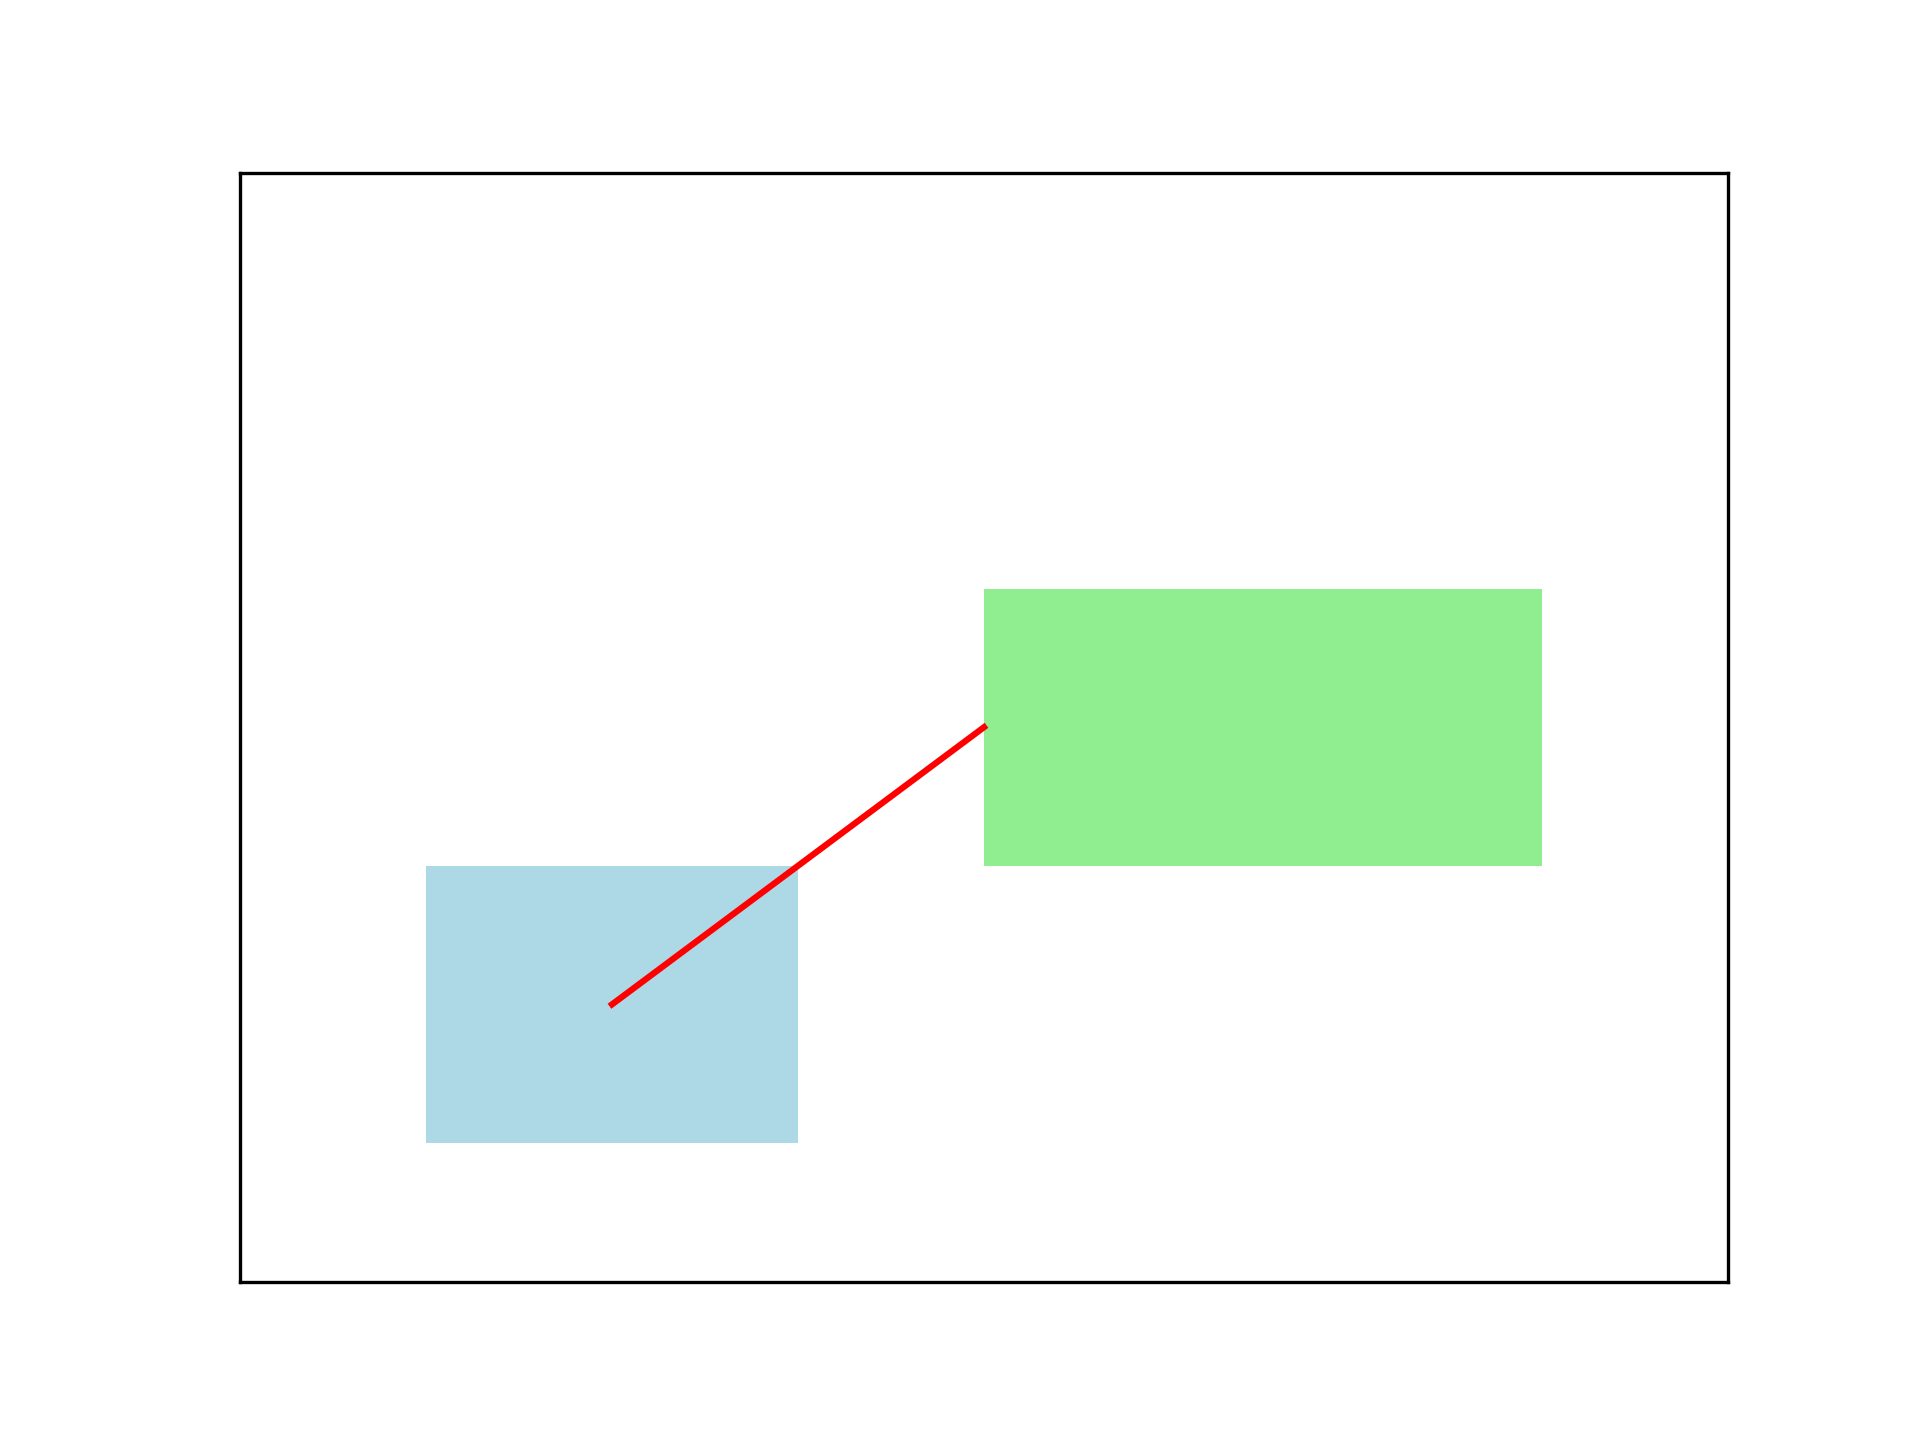
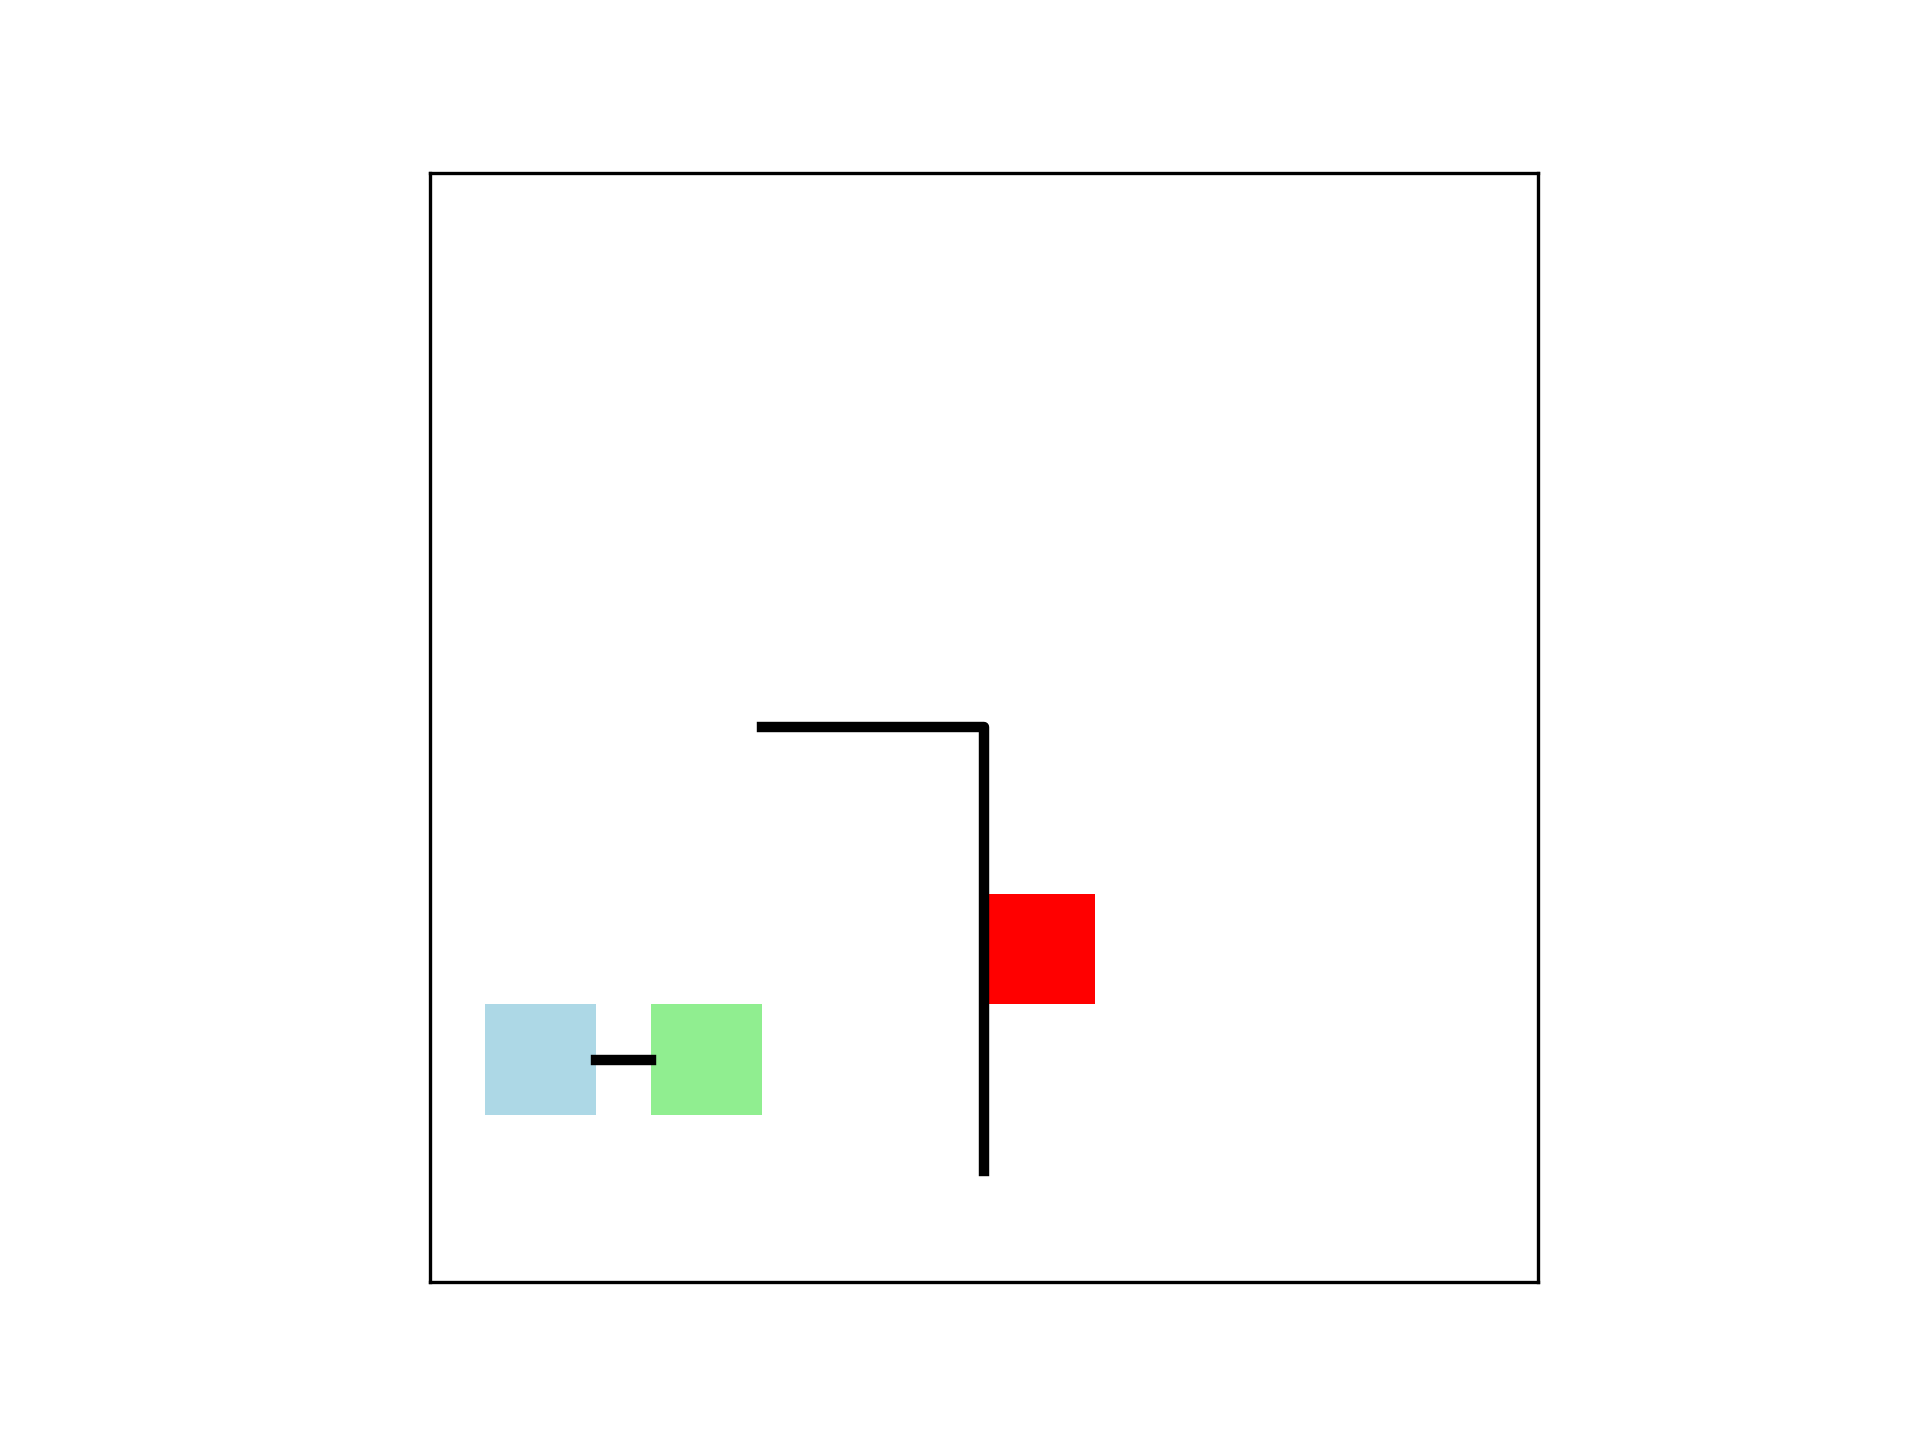
graph

diff --git a/TriLogic/Func_main.cpp b/TriLogic/Func_main.cpp
@@ -159,9 +159,7 @@ int main() {
                 }
 
             }
-            //cout << endl << "F：";
             for (int there = 0; there < sizeofF; there++) {
-                //cout << d[i]["Statement_when_false"][there].GetInt() << "   ";
                 Nodes *b = find_node_by_number1(d[i]["Statement_when_false"][there].GetInt());
 
                 if (b != NULL && (b->control == NULL || b->control->node_id < con))//b不是空节点,且当前控制节点没有指向
@@ -170,10 +168,8 @@ int main() {
                         inDegree[b->node_id]++;//节点b的入度++
                     b->control = con_node;
                     TvsF.insert(pair<int, bool>(b->node_id, false));//构建互斥
-                    //cout << "there is " << con << " to " << b->node_id << "control depend" << endl;
                 }
             }
-//                //cout<<endl;
         }
         if (type_id == 4)//类型为loop
         {
@@ -182,13 +178,11 @@ int main() {
             int con = d[i]["Condition"].GetInt();//条件节点的位置
             Nodes *con_node = find_node_by_number1(con);
 
-            //cout << "loop depend" << endl << "condition: " << con << endl;
             int sizeofL = d[i]["Statement_loop"].Size();//LOOP节点数目
             con_node->out_degree += sizeofL;//更新条件节点的出度
 
             for (int there = 0; there < sizeofL; there++) {
                 int there_id = d[i]["Statement_loop"][there].GetInt();
-//                    //cout<<there_id<<endl;
                 //1.该节点可能是OP，没有Dst，所以要先对类型进行判断
                 //2.条件节点判断的输入也可能有多个，最好写成函数，直接套用OP之间的依赖
                 //问题：there_id可能根本不在nodes中，nodes的依赖可能有很多，需要找到他的直接依赖
@@ -198,7 +192,6 @@ int main() {
                     if (a->control == NULL)//如果第一次设置控制节点
                         inDegree[a->node_id]++;//入度++
                     a->control = con_node;
-                    //cout << "loop node " << there_id << " condition: " << con_node->node_id << endl;
 
                 }
             }
@@ -324,7 +317,6 @@ int main() {
     vector<int> array_num_energy;
     vector<int> array_num_area;
 
-//    //cout<<"array vector define no error"<<endl;
 
     std::ofstream outFile;
 
@@ -337,7 +329,7 @@ int main() {
 
 
 
-    for (int p = 0; p < 2; ++p) {
+    for (int p = 0; p < 1; ++p) {
         reset_nodes2();
         init_Buffer_Reg();//初始化buffer和Reg
         vector<lut_arr> array_list1;//lut阵列表
@@ -358,11 +350,11 @@ int main() {
             case 0: {
                 vector<double> latency_energy_area = control_step(controlstep2, array_list1, array_list2,array_list3);
                 int csa_num = 0, dsa_num = 0;
-                if (array_list2.size()+array_list3.size() <5
-                    ||array_list2.size()<2
-                    ||array_list3.size()<2
-                    ||array_list1.size()+array_list2.size()+array_list3.size()>100)
-                    p--;
+//                if (array_list2.size()+array_list3.size() <4
+//                    ||array_list2.size()<2
+//                    ||array_list3.size()<2
+//                    ||array_list1.size()+array_list2.size()+array_list3.size()>100)
+//                    p--;
                 for (int i=0;i< array_list2.size();i++) {
                     if (array_list2[i].sa_type == 1)
                         csa_num++;
@@ -376,6 +368,7 @@ int main() {
                         << array_list1.size() << ',' << csa_num << ',' << dsa_num << ',' << array_list3.size() << ','
                         <<array_list1.size()+array_list2.size()+array_list3.size()<<','
                         << Reg_sum.write_num_sum << ',' << Reg_sum.read_num_sum << std::endl;
+                outFile.close();
 
             }
                 break;
@@ -401,6 +394,7 @@ int main() {
                         <<array_list1.size()+array_list2.size()+array_list3.size()<<','
                         << Reg_sum.write_num_sum << ','
                         << Reg_sum.read_num_sum << std::endl;
+                outFile.close();
 
             }
                 break;
@@ -426,6 +420,7 @@ int main() {
                         <<array_list1.size()+array_list2.size()+array_list3.size()<<','
                         << Reg_sum.write_num_sum << ','
                         << Reg_sum.read_num_sum << std::endl;
+                outFile.close();
             }
                 break;
             case 3: {
@@ -450,15 +445,47 @@ int main() {
                         <<array_list1.size()+array_list2.size()+array_list3.size()<<','
                         << Reg_sum.write_num_sum << ','
                         << Reg_sum.read_num_sum << std::endl;
+                outFile.close();
             }
                 break;
             default:
                 break;
         }
 
+        //array转json
+        //先创建document
+        rapidjson::Document doc;
+        doc.SetArray();//设置数组[]，里面有多个阵列对象
+        for (auto i: place_list) {
+            rapidjson::Value array(rapidjson::kObjectType);
+            array.AddMember("ID", i.array_id, doc.GetAllocator());
+            array.AddMember("TYPE", i.array_type, doc.GetAllocator());
+            array.AddMember("X", i.pos_x, doc.GetAllocator());
+            array.AddMember("Y", i.pos_y, doc.GetAllocator());
+            array.AddMember("WIDTH",i.array_width, doc.GetAllocator());
+            array.AddMember("HEIGHT",i.array_height, doc.GetAllocator());
+            rapidjson::Value connect_line(rapidjson::kArrayType);
+            for (const auto& value : i.connect_line) {
+                rapidjson::Value intValue(value);
+                connect_line.PushBack(intValue, doc.GetAllocator());
+            }
+            array.AddMember("CONNECT_LINE", connect_line, doc.GetAllocator());
+            doc.PushBack(array, doc.GetAllocator());
+        }
+        rapidjson::StringBuffer buffer;
+        rapidjson::PrettyWriter<rapidjson::StringBuffer> writer(buffer);
+        doc.Accept(writer);
+        std::ofstream outputFile("output.json");
+        if (outputFile.is_open()) {
+            outputFile << buffer.GetString();
+            outputFile.close();
+            std::cout << "JSON file generated successfully." << std::endl;
+        } else {
+            std::cerr << "Failed to open output file." << std::endl;
+        }
         cout << "LOOP :" << p + 1 << endl;
     }
-    outFile.close();
+
 
     cout << "BEST Delay: latency = " << best_latency[0] << " energy = " << best_latency[1] <<" area =  "<<best_latency[2] << endl;
     cout << "Array num = " << array_num_latency[0] << " " << array_num_latency[1] << " "
@@ -470,7 +497,7 @@ int main() {
     cout << "Array num = " << array_num_area[0] << " " << array_num_area[1] << " "
          << array_num_area[2] << endl;
 
-    //绘制帕累托优化的解
+
 
     //先判断设计目标，按照设计目标来循环给约束
     return 0;

diff --git a/TriLogic/control_step.cpp b/TriLogic/control_step.cpp
@@ -2,7 +2,8 @@
 #include "mainfunc.h"
 #include "logic_func.h"
 #include "dse.h"
-
+//将所有阵列进行编号
+vector<Array_place> place_list;
 
 std::vector<double> control_step(vector<vector<Nodes *>> &controlstep2, vector<lut_arr> &array_list1, vector<sa_arr> &array_list2,
                                  vector<magic_arr> &array_list3) {
@@ -303,46 +304,29 @@ std::vector<double> control_step(vector<vector<Nodes *>> &controlstep2, vector<l
     }
 
     //开始执行模拟退火布局布线
-    //将所有阵列进行编号
-    vector<Array_place> place_list;
-    //cout<<"no error with vector<Array_place> place_list; "<<endl;
+    place_list.clear();
+
     int num_array=array_list1.size()+array_list2.size()+array_list3.size();//阵列个数
-    //cout<<"no error with num_array "<<endl;
     int **data_transfer=new int * [num_array];//数据传输次数
-    //cout<<"no error with **data_transfer "<<endl;
     for (int i = 0; i < num_array; ++i) {
         data_transfer[i]=new int[num_array];
         for (int j = 0; j < num_array; ++j) {
             data_transfer[i][j]=0;
         }
     }
-    //cout<<"no error with **data_transfer [][]"<<endl;
 
-    //cout<<"controlstep array_list1.size = "<<array_list1.size()<<endl;
     for (int i = 0; i < array_list1.size(); ++i) {
-        //cout<<"controlstep array_list1 "<<i <<"  1"<<endl;
         Array_place place_arr;
-        //cout<<"controlstep array_list1 "<<i <<"  2"<<endl;
         place_arr.array_id = i;
-        //cout<<"controlstep array_list1 "<<i <<"  3"<<endl;
         place_arr.array_type = 1;
-        //cout<<"controlstep array_list1 "<<i <<"  4"<<endl;
         place_arr.array_width = array_list1[i].lut_num;
-        //cout<<"controlstep array_list1 "<<i <<"  5"<<endl;
         place_arr.array_height = array_list1[i].row_num;
-        //cout<<"controlstep array_list1 "<<i <<"  6"<<endl;
         place_arr.pos_x = 0;
-        //cout<<"controlstep array_list1 "<<i <<"  7"<<endl;
         place_arr.pos_y = 0;
-        //cout<<"controlstep array_list1 "<<i <<"  8"<<endl;
         place_list.push_back(place_arr);
-        //cout<<"controlstep array_list1 "<<i <<"  9"<<endl;
         //遍历array_list1的data_exchange
         place_num(array_list1[i].data_exchange, data_transfer, i, array_list1.size(), array_list2.size());//???
-        //cout<<"controlstep array_list1 "<<i <<"  10"<<endl;
     }
-    //cout<<"no error with array_list1 "<<endl;
-    //cout<<"controlstep array_list2.size = "<<array_list2.size()<<endl;
     for (int i = array_list1.size(); i <array_list1.size()+array_list2.size(); ++i) {
         Array_place place_arr{};
         place_arr.array_id = i;
@@ -355,7 +339,7 @@ std::vector<double> control_step(vector<vector<Nodes *>> &controlstep2, vector<l
         place_num(array_list2[i - array_list1.size()].data_exchange, data_transfer, i, array_list1.size(),
                   array_list2.size());//???
     }
-    for (int i = array_list1.size()+array_list2.size(); i <array_list1.size()+array_list2.size()+array_list3.size(); ++i) {
+    for (int i = array_list1.size()+array_list2.size(); i <num_array; ++i) {
         Array_place place_arr{};
         place_arr.array_id = i;
         place_arr.array_type = 3;
@@ -367,6 +351,18 @@ std::vector<double> control_step(vector<vector<Nodes *>> &controlstep2, vector<l
         place_num(array_list3[i - array_list1.size() - array_list2.size()].data_exchange, data_transfer, i,
                   array_list1.size(), array_list2.size());//???
     }
+    //ID从零开始，获取每个阵列的数据传输矩阵
+    for (int i = 0; i < num_array; ++i) {
+        vector<int> data_transfer_vector_temp;
+        for (int j = 0; j < num_array ; ++j) {
+            data_transfer_vector_temp.push_back(data_transfer[i][j]);
+        }
+        place_list[i].connect_line=data_transfer_vector_temp;
+    }
+
+
+
+
 
     //规定xy的界限
     int x_max=ceil(sqrt(num_array));
@@ -386,6 +382,7 @@ std::vector<double> control_step(vector<vector<Nodes *>> &controlstep2, vector<l
     double threshold=1e-30;
     simulateAnnealing(place_list,Place_array,data_transfer, num_array,x_max,y_max, initialTemperature, finalTemperature,
             coolingRate, maxIterations, threshold);
+    //将坐标值更新到 place_list;
     //释放空间
     for (int i = 0; i < num_array; ++i) {
         delete [] data_transfer[i];

diff --git a/TriLogic/layout/layout.py b/TriLogic/layout/layout.py
@@ -1,29 +1,51 @@
 import matplotlib.pyplot as plt
+import json
 
 # 创建一个新的图形
 fig, ax = plt.subplots()
+plt.axis('equal')
+plt.axis('square')
+# 隐藏坐标轴刻度
+ax.set_xticks([])
+ax.set_yticks([])
+#1.读取json文档，获取阵列的个数n_array和线的个数n_line
+#2.根据阵列的个数n_array、尺寸（width、length）和线的个数n_line，确定图形的大小(坐标范围)
+#3.根据阵列的个数n_array和线的个数n_line，确定阵列的位置和大小
+
+# 设置坐标轴范围
+ax.set_xlim(0, 20)
+ax.set_ylim(0, 20)
+
 
 # 创建方框并设置位置和大小
-rect1 = plt.Rectangle((1, 1), 2, 2, fc='lightblue')
-rect2 = plt.Rectangle((4, 3), 3, 2, fc='lightgreen')
+#语法：Rectangle((x, y), width, height, **kwargs)
+rect1 = plt.Rectangle((1, 3), 2, 2, fc='lightblue')
+rect2 = plt.Rectangle((4, 3), 2, 2, fc='lightgreen')
+rect3 = plt.Rectangle((10, 5), 2, 2, fc='red')
+
 
 # 添加方框到图形中
 ax.add_patch(rect1)
 ax.add_patch(rect2)
+ax.add_patch(rect3)
 
-# 连接方框之间的连线
-line = plt.Line2D([2, 4], [2, 4], color='red')
+# 绘制连线
+#语法：Line2D(xdata, ydata, **kwargs)
+x1 = [3, 4]
+y1 = [4, 4]
+line1 = plt.Line2D(x1, y1, lw=2.5, color='black')
+ax.add_line(line1)
+#绘制rect2和rect3之间的连线
+x2 = [6, 10,10]
+y2 = [10, 10,2]
+line2 = plt.Line2D(x2, y2, lw=2.5, color='black')
+ax.add_line(line2)
 
-# 添加连线到图形中
-ax.add_line(line)
 
-# 设置坐标轴范围
-ax.set_xlim(0, 8)
-ax.set_ylim(0, 8)
 
-# 隐藏坐标轴刻度
-ax.set_xticks([])
-ax.set_yticks([])
+
+
+
 
 # 保存图形为PNG图片
 plt.savefig('graph.png', dpi=300)

diff --git a/TriLogic/mainfunc.h b/TriLogic/mainfunc.h
@@ -5,10 +5,12 @@
 #include<fstream>
 #include<sstream>
 #include<map>
-//#include<SDL2/SDL.h>
 #include<typeinfo>
 #include <algorithm>
 #include"rapidjson/document.h"
+#include "rapidjson/writer.h"
+#include "rapidjson/stringbuffer.h"
+#include "rapidjson/prettywriter.h"
 #include "parameter.h"
 #include <queue>
 #include <set>
@@ -50,11 +52,14 @@ struct Array_place{
     int array_height;
     int pos_x;//阵列位置
     int pos_y;//阵列位置
+    std::vector<int> connect_line;//连接线
 };
 
 extern vector<Nodes> nodes;//节点类型的向量，里面可以放下一个个节点
 
 extern vector<Nodes> nodes2;
+
+extern vector<Array_place> place_list;;
 
 void reset_nodes2();
 
